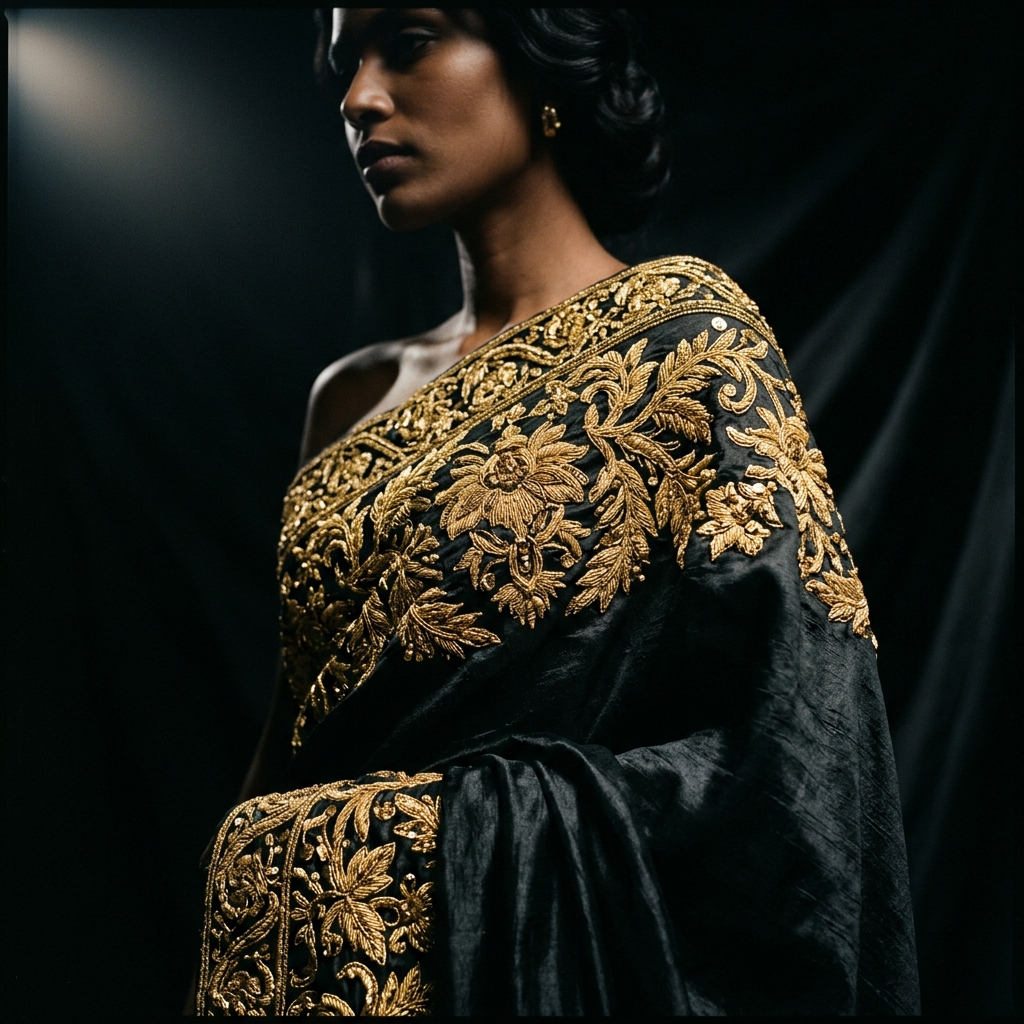
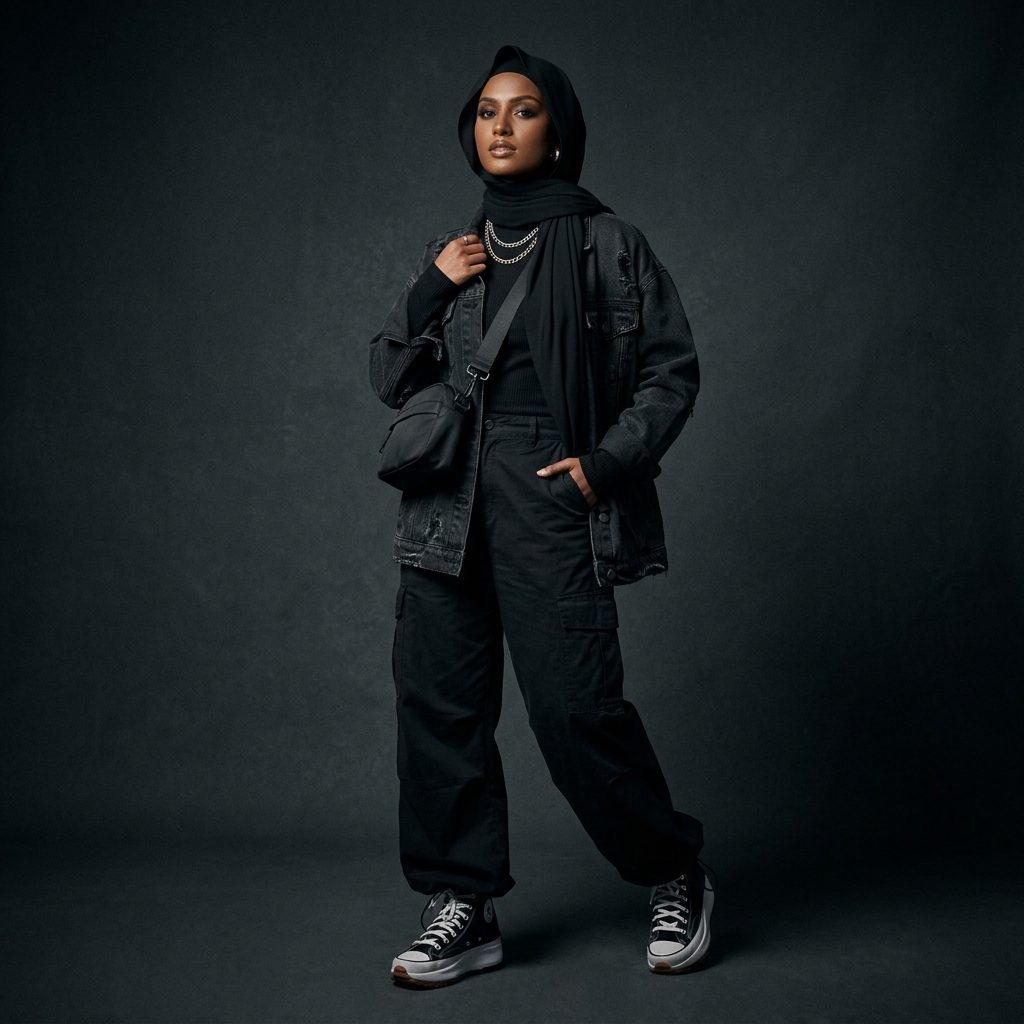
BrandEthos section completed in desktop view

diff --git a/src/components/BrandEthos.jsx b/src/components/BrandEthos.jsx
@@ -10,7 +10,7 @@ export default function BrandEthos() {
   const imageRef = useRef(null);
 
   const ethosText =
-    "We believe that garments are not mere cover. They are structural shells that interface with the space we inhabit. Every seam, every cut, and every hardware clasp is placed with microscopic intentionality. CACAPO represents the intersection of luxury craftsmanship, architectural minimalism, and the fluidity of modern feminine power.";
+    "We curate the finest imported streetwear and modern apparel from across East Asia, bringing global trends directly to India. Tailored for Gen-Z style expressions, each piece is hand-selected to define the edge of modern youth culture.";
 
   const words = ethosText.split(" ");
 
@@ -39,9 +39,9 @@ export default function BrandEthos() {
     // Parallax on image
     const imageAnim = gsap.fromTo(
       imageRef.current,
-      { y: 60 },
+      { y: 40 },
       {
-        y: -60,
+        y: -40,
         ease: "none",
         scrollTrigger: {
           trigger: triggerRef.current,
@@ -63,7 +63,7 @@ export default function BrandEthos() {
   return (
     <section
       ref={triggerRef}
-      className="relative bg-black py-40 px-6 overflow-hidden border-t border-zinc-900 select-none"
+      className="relative bg-black py-24 px-6 overflow-hidden border-t border-zinc-900 select-none"
       id="brand-ethos"
     >
       <div className="max-w-7xl mx-auto grid grid-cols-1 lg:grid-cols-12 gap-16 items-center">
@@ -89,21 +89,21 @@ export default function BrandEthos() {
           {/* Details below reveal */}
           <div className="mt-12 flex items-start gap-12 border-t border-zinc-900 pt-10">
             <div>
-              <span className="text-2xl font-bold font-mono text-zinc-100 block">100%</span>
+              <span className="text-2xl font-bold font-mono text-zinc-100 block">GLOBAL</span>
               <span className="text-[10px] text-muted-text tracking-widest uppercase mt-1 block">
-                Italian Craftsmanship
+                East Asian Imports
               </span>
             </div>
             <div>
-              <span className="text-2xl font-bold font-mono text-zinc-100 block">01</span>
+              <span className="text-2xl font-bold font-mono text-zinc-100 block">16-30</span>
               <span className="text-[10px] text-muted-text tracking-widest uppercase mt-1 block">
-                Signature Collection Yearly
+                Gen-Z Youth Focus
               </span>
             </div>
             <div>
-              <span className="text-2xl font-bold font-mono text-zinc-100 block">LIMITED</span>
+              <span className="text-2xl font-bold font-mono text-zinc-100 block">WEEKLY</span>
               <span className="text-[10px] text-muted-text tracking-widest uppercase mt-1 block">
-                Small-Batch Run Production
+                Fresh Curated Drops
               </span>
             </div>
           </div>
@@ -112,13 +112,13 @@ export default function BrandEthos() {
         {/* Visual Parallax Column */}
         <div className="lg:col-span-5 relative flex justify-center items-center">
           {/* Decorative frame elements */}
-          <div className="absolute inset-0 border border-zinc-800 rounded-3xl -m-4 pointer-events-none" />
-          <div className="absolute top-0 right-0 w-24 h-24 border-r border-t border-accent/20 rounded-tr-3xl -m-4 pointer-events-none" />
-          <div className="absolute bottom-0 left-0 w-24 h-24 border-l border-b border-accent/20 rounded-bl-3xl -m-4 pointer-events-none" />
+          <div className="absolute inset-0 border border-zinc-800 rounded-none -m-4 pointer-events-none" />
+          <div className="absolute top-0 right-0 w-24 h-24 border-r border-t border-accent/20 rounded-none -m-4 pointer-events-none" />
+          <div className="absolute bottom-0 left-0 w-24 h-24 border-l border-b border-accent/20 rounded-none -m-4 pointer-events-none" />
 
           {/* Core Image container */}
-          <div className="w-full aspect-[3/4] overflow-hidden rounded-2xl relative shadow-2xl border border-zinc-900 bg-zinc-950">
-            <div className="absolute inset-0 bg-gradient-to-t from-black/80 via-transparent to-black/35 z-10 pointer-events-none" />
+          <div className="w-full aspect-3/4 overflow-hidden rounded-none relative shadow-2xl border border-zinc-900 bg-zinc-950">
+            <div className="absolute inset-0 bg-linear-to-t from-black/80 via-transparent to-black/35 z-10 pointer-events-none" />
             <img
               ref={imageRef}
               src="/Images/ethos.jpg"
@@ -128,10 +128,10 @@ export default function BrandEthos() {
             {/* Ambient gold glow under layout */}
             <div className="absolute bottom-6 left-6 z-20">
               <span className="text-[10px] tracking-[0.3em] text-accent uppercase font-semibold">
-                THE MATERIALITY STUDY
+                CURATED IMPORT SELECTION
               </span>
               <span className="text-sm font-semibold tracking-wider text-white block mt-1">
-                Silk Weave & Platinum Stitching
+                Sourced from China, Indonesia & Vietnam
               </span>
             </div>
           </div>
